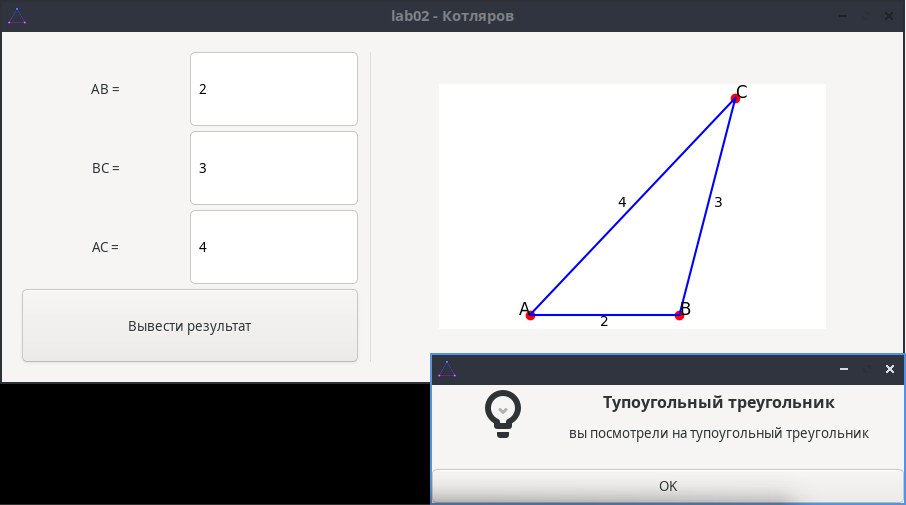
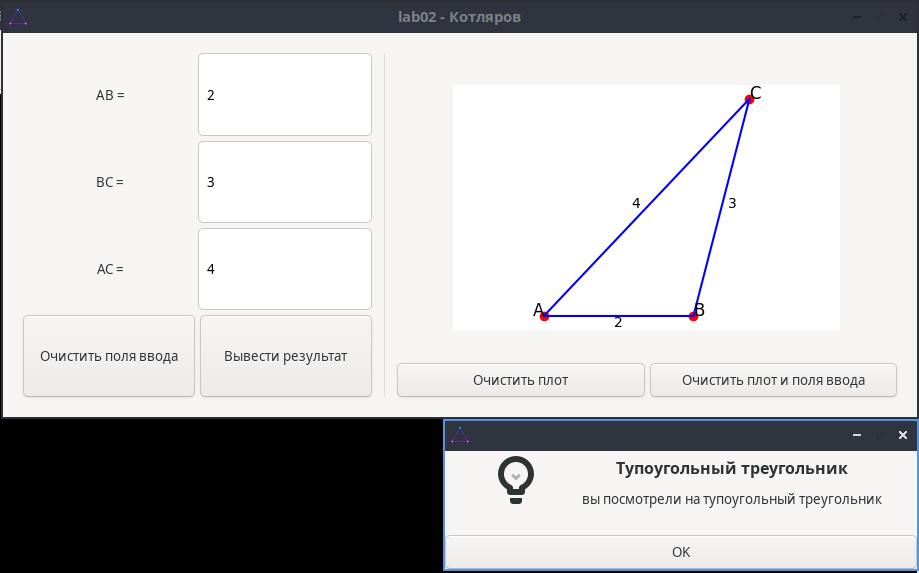
ui + app + screens
Добавил новые кнопки (очистка плота и прочего) и реализовал в аппе

Обновил скриншоты

diff --git a/app.py b/app.py
@@ -12,6 +12,10 @@ bld.add_from_file('ui.glade')
 win = bld.get_object('wnd')
 pic = bld.get_object('pic')
 
+inpa = bld.get_object('inp_a')
+inpb = bld.get_object('inp_b')
+inpc = bld.get_object('inp_c')
+
 def Gtkdialog(type, title, text):
     if type == "error":
         type = Gtk.MessageType.ERROR
@@ -60,9 +64,9 @@ def plot_triangle(a, b, c):
 
 def result(obj):
     try:
-        a = int(bld.get_object('inp_a').get_text())
-        b = int(bld.get_object('inp_b').get_text())
-        c = int(bld.get_object('inp_c').get_text())
+        a = int(inpa.get_text())
+        b = int(inpb.get_text())
+        c = int(inpc.get_text())
     except:
         dialog = Gtkdialog('error', 'Значения указаны неверно', 'Одно или несколько значений заполнены наверно.\nПринимаются только целые числа')
         plot_error("Неверные значения:\nЗначения должны быть целыми и положительными")
@@ -97,12 +101,42 @@ def result(obj):
 def destroy(obj):
     try:
         os.remove("plot.png")
+    except:
+        return
     finally:
         Gtk.main_quit()
 
+def cls_plt(obj):
+    pic.set_from_file()
+    try:
+        os.remove("plot.png")
+    except:
+        return
+    finally:
+        pass
+
+def cls_all(obj):
+    pic.set_from_file()
+    try:
+        os.remove('plot.png')
+    except:
+        return
+    finally:
+        inpa.set_text('')
+        inpb.set_text('')
+        inpc.set_text('')
+
+def cls_vals(obj):
+    inpa.set_text('')
+    inpb.set_text('')
+    inpc.set_text('')
+
 tab = {
     "onDestroy": destroy,
-    "btn_res": result
+    "btn_res": result,
+    "clear_plot": cls_plt,
+    "clear_inp": cls_vals,
+    "clear_all": cls_all
 }
 
 bld.connect_signals(tab)

diff --git a/README.md b/README.md
@@ -3,14 +3,15 @@
 
 Для работы подойдет любой дистрибутив Linux, но необходимо установить необходимые библиотеки.
 ## Что необходимо установить перед запуском
-Для запуска требуются такие компоненты, как Gtk, python3 и matplotlib
+Для запуска требуются такие компоненты, как Gtk, python3 и matplotlib.
 
-Для установки используем команду `sudo apt install python3 python3-matplotlib python3-gi python3-gi-cairo gir1.2-gtk-3.0 -y`
+Для установки используем команду `sudo apt install python3 python3-matplotlib python3-gi python3-gi-cairo gir1.2-gtk-3.0 -y`.
 ## Как запустить программу
 Для запуска программы используем команду `python3 app.py` внутри папки проекта.
 
 **Если использовать вне папки проекта, то программа может создавать свой временный файл для себя, заменив _возможно_ существующий файл у вас.**
 ### Не считаю за ошибку
 - Если AB и BC равны 100+, а AC значительно меньше AB/AC и рисунок выходит как одна линия. 
-- Прием очень больших чисел (1000000000000000...)
-    - Python принимает за число - значит так и должно быть, вот оно и работает
+    - В теории такой треугольник действительно существует, но это невозможно отрисовать нормально.
+- Прием очень больших чисел (1000000000000000...).
+    - Python принимает за число - значит так и должно быть, вот оно и работает.
